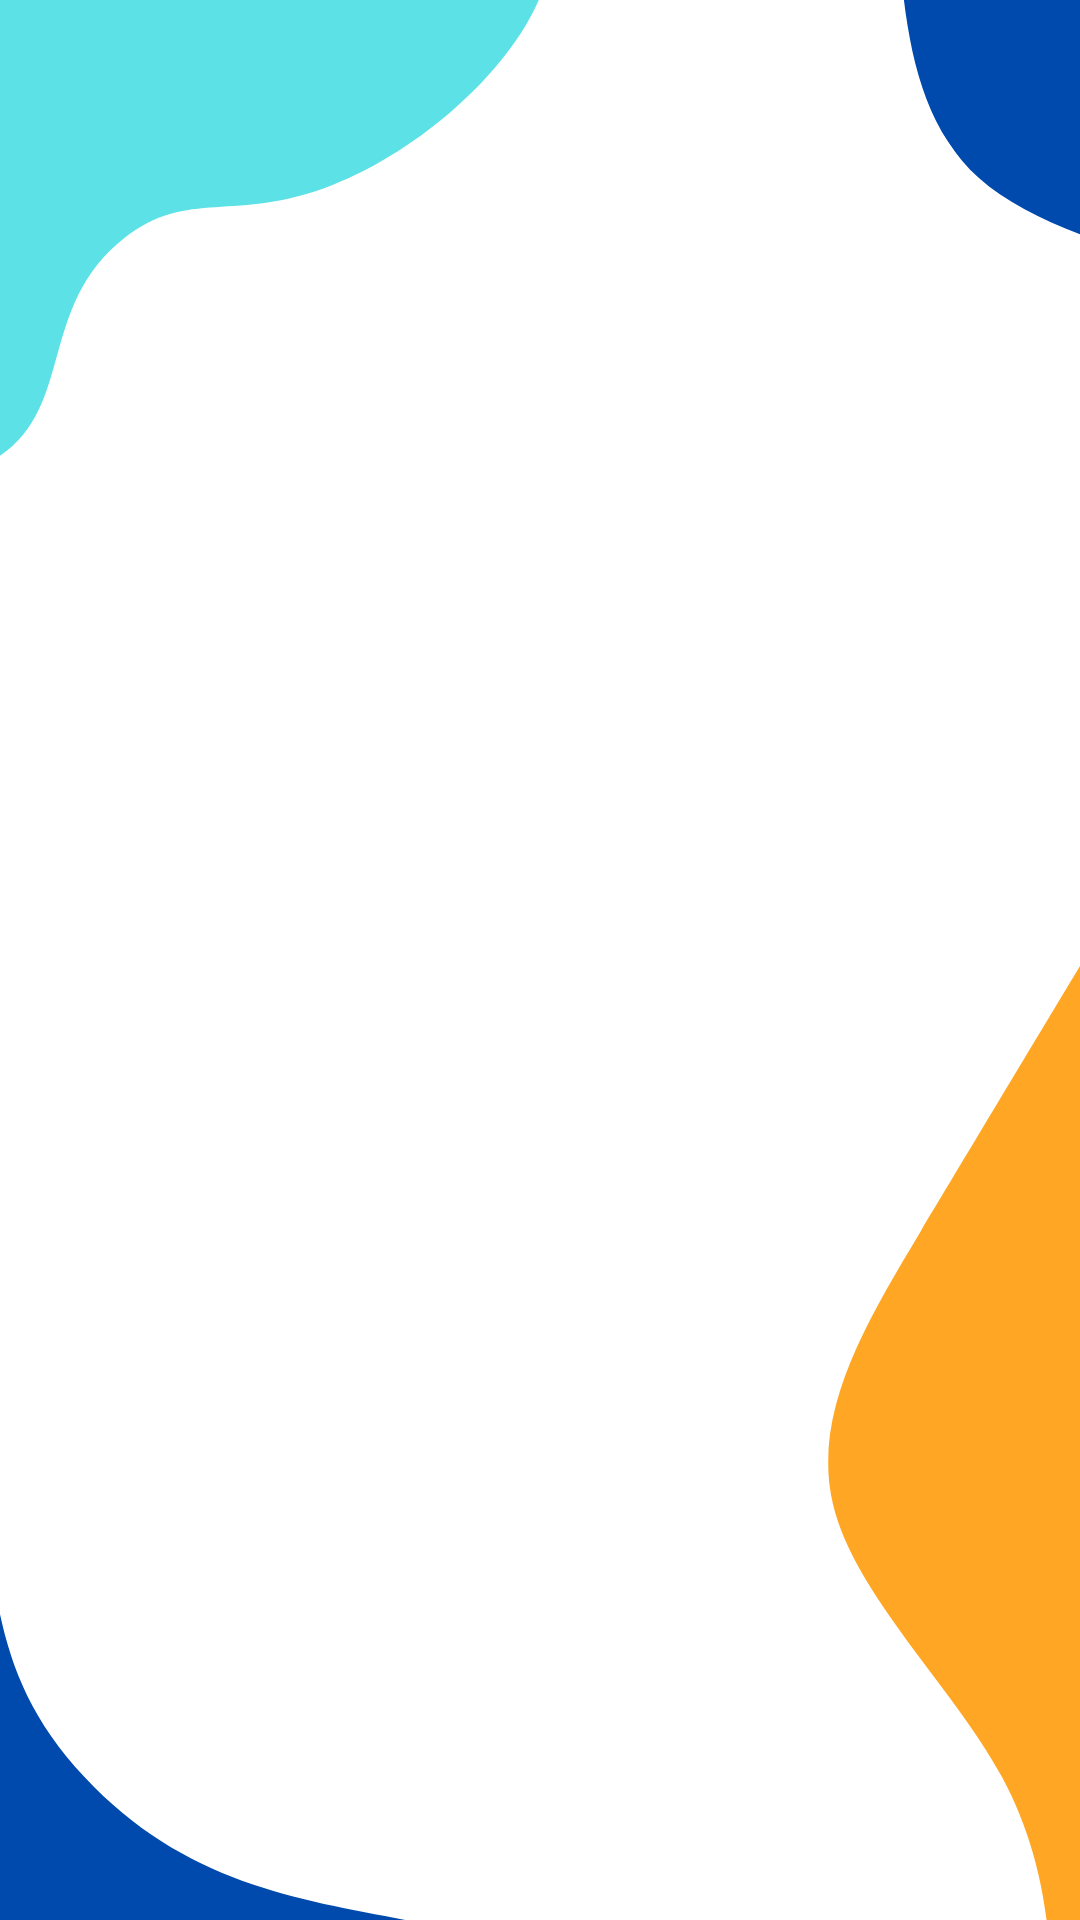
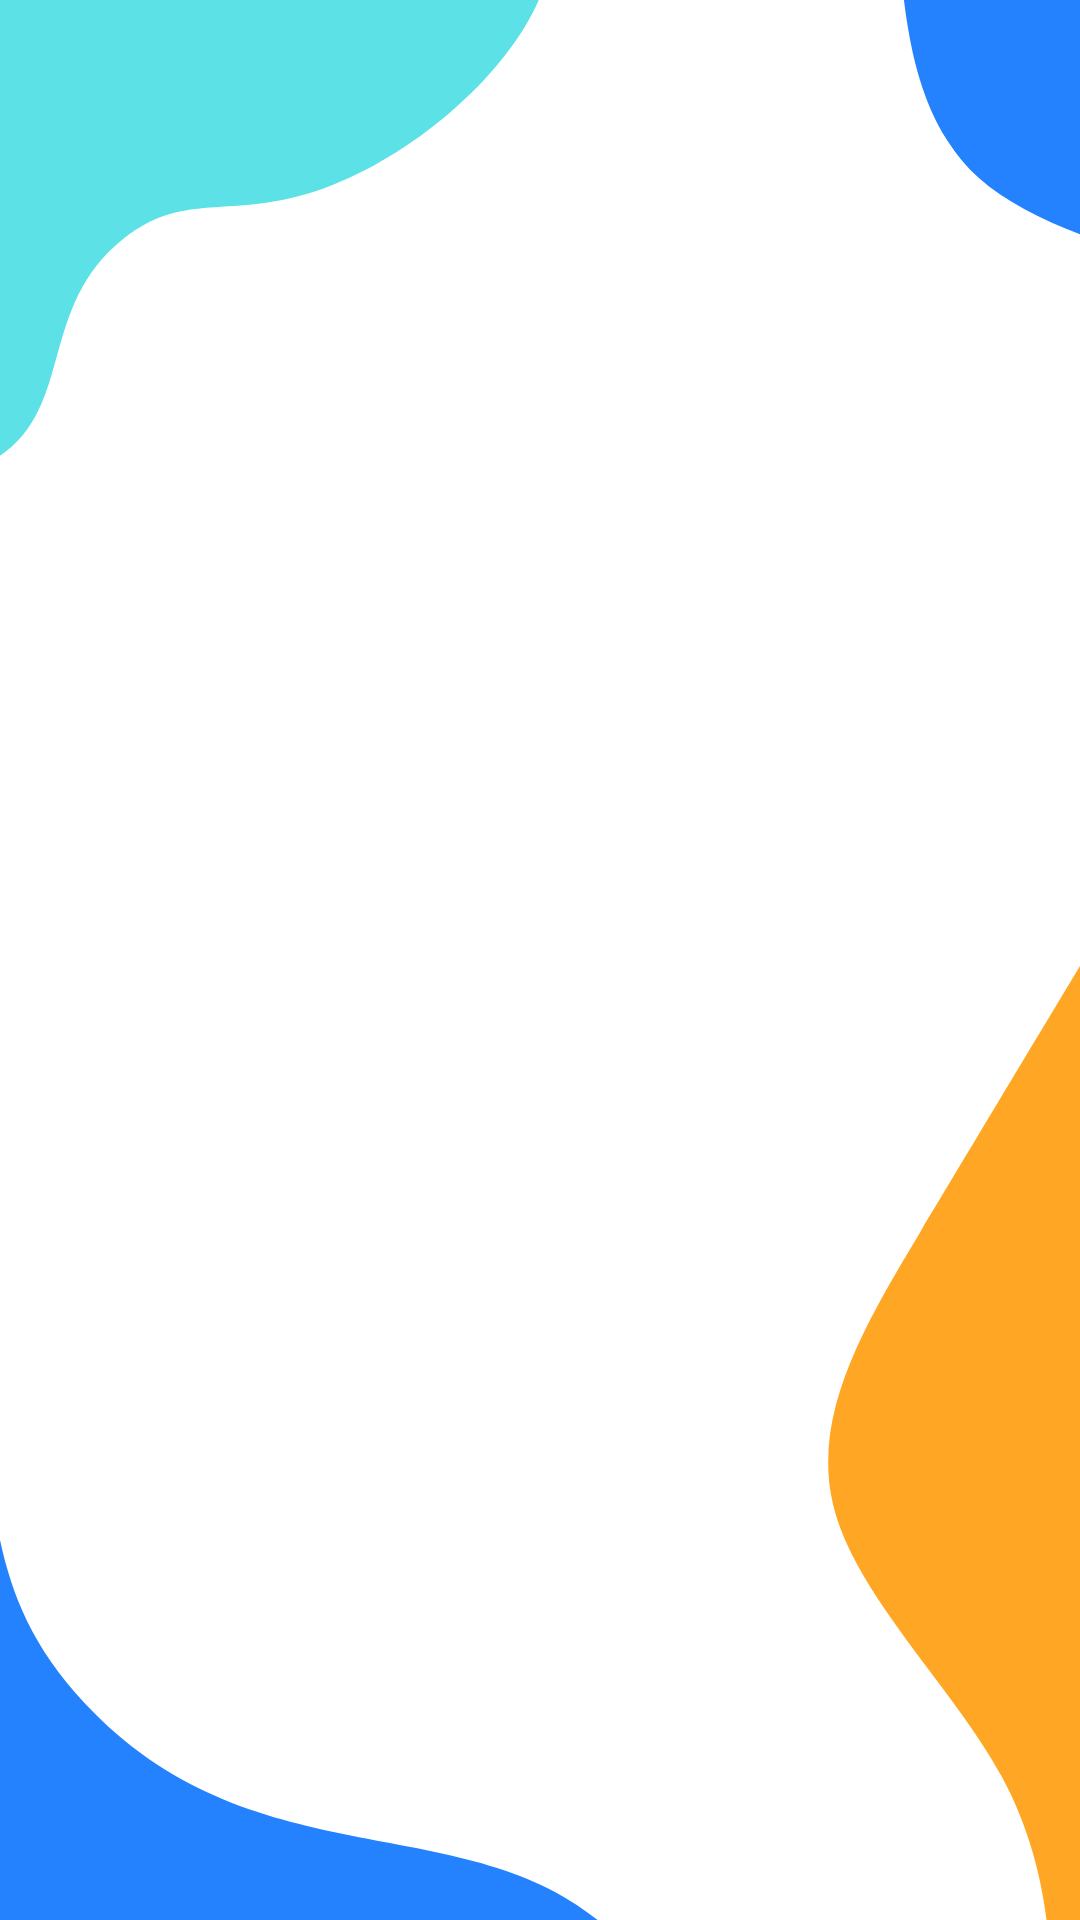
inicio
Se inicio con la pantalla de inicio

Changed region(s): [[0.0, 0.8125, 0.55, 1.0], [0.825, 0.0, 1.0, 0.125]]

diff --git a/my-app/app/main/inicio.tsx b/my-app/app/main/inicio.tsx
@@ -1,7 +1,7 @@
 import React, { useState } from 'react';
 import { createBottomTabNavigator } from '@react-navigation/bottom-tabs';
 import { MaterialIcons, FontAwesome, Feather } from '@expo/vector-icons';
-import { View, Text, StyleSheet, TouchableOpacity,  Image } from 'react-native';
+import { View, Text, StyleSheet, TouchableOpacity,  Image, ImageBackground } from 'react-native';
 import { useRouter } from 'expo-router';
 
 const Tab = createBottomTabNavigator();
@@ -34,9 +34,29 @@ const Inicio = () => {
                         source={require('../../assets/Icons/mensaje.png')}
                         style={styles.icon}
                     />
+                    
                 </TouchableOpacity>
             </View>
         </View>
+
+        <View style={styles.contentContainer}>
+          <TouchableOpacity>
+            <ImageBackground
+            source={require('../../assets/images/card.png')}
+            style={styles.icon2}>
+              <Text style={styles.text}>Looking For Your Desire</Text>
+              <Text style={styles.text}>Specialist Doctor?</Text>
+              <Text style={[styles.text,{ fontSize: 15, marginTop:30, marginBottom:5 }]}>Dr. Salina Zaman</Text>
+              <Text style={styles.text2}>Medicine & Heart Spelist</Text>
+              <Text style={styles.text2}>Good Health Clinic</Text>
+            </ImageBackground>
+          </TouchableOpacity>
+        </View>
+
+
+        
+        
+      
 
       {/* Barra de navegación inferior */}
       <Tab.Navigator
@@ -209,6 +229,29 @@ icon: {
     fontSize: 16,
     marginLeft: 10,
   },
+
+
+ 
+  contentContainer: {
+    alignItems: 'center',
+  },
+  text: {
+    color: '#ffffff',
+    fontSize: 18,
+    fontWeight: 'bold',
+    
+  },
+  icon2:{
+    width:320,
+    height:170,
+    overflow: 'hidden',
+    borderRadius: 15,
+    padding:20,
+  },
+  text2:{
+    fontSize:15,
+    color:"#ffffff"
+  }
 });
 
 export default Inicio;

diff --git a/my-app/app/auth/sign-up.tsx b/my-app/app/auth/sign-up.tsx
@@ -70,7 +70,7 @@ function SignUpScreen() {
             <TextInput style={styles.input} placeholder="" secureTextEntry={true} value={confirmPassword} onChangeText={setConfirmPassword} />
            
             <TouchableOpacity style={styles.sign} onPress={onSignUp}>
-                <Text style={styles.buttonText}>Registrarse</Text>
+                <Text style={styles.buttonText}>Sign Up</Text>
             </TouchableOpacity>
 
         </View>
@@ -107,7 +107,7 @@ const styles = StyleSheet.create({
     },
     sign: {
         width: 300,
-        backgroundColor: '#004aad',
+        backgroundColor: '#2582ff',
         padding: 10,
         alignItems: 'center',
         borderRadius: 5,

diff --git a/my-app/app/auth/forgot-password.tsx b/my-app/app/auth/forgot-password.tsx
@@ -47,7 +47,7 @@ const styles = StyleSheet.create({
     },
     buttonS: {
         width: 300,
-        backgroundColor: '#004aad',
+        backgroundColor: '#2582ff',
         padding: 10,
         alignItems: 'center',
         borderRadius: 5,

diff --git a/my-app/app/auth/sign-in.tsx b/my-app/app/auth/sign-in.tsx
@@ -68,7 +68,7 @@ const styles = StyleSheet.create({
     },
     sign: {
         width: 300,
-        backgroundColor: '#004aad',
+        backgroundColor: '#2582ff',
         padding: 10,
         alignItems: 'center',
         borderRadius: 5,
